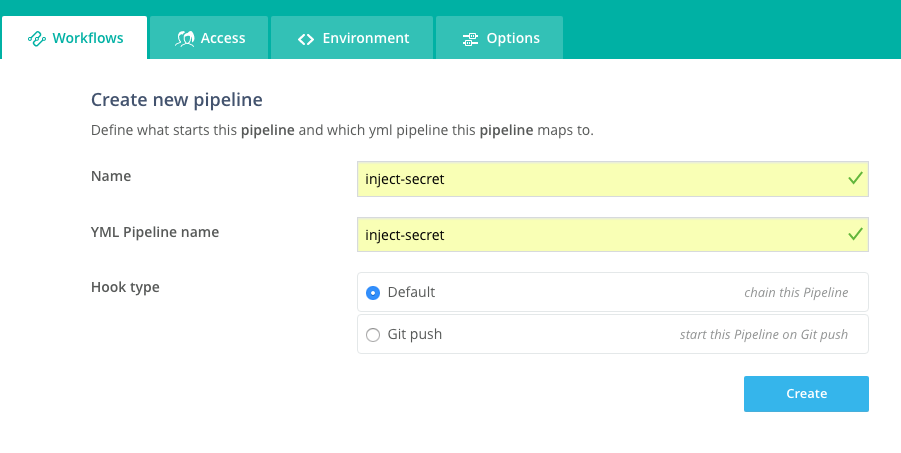
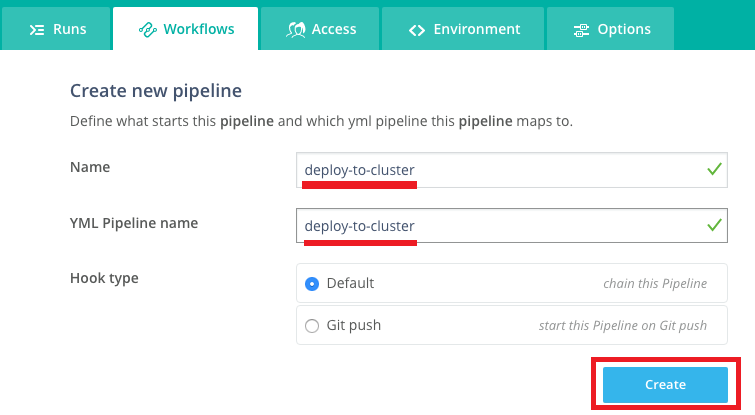
updates to lab guides for terraform provisioning

diff --git a/workshops/container-native-development/LabGuide200.md b/workshops/container-native-development/LabGuide200.md
@@ -113,7 +113,7 @@ cat ~/.oci/oci_api_key_public.pem | clip
 
   ![](images/200/10.png)
 
-**NOTE**: If you are using a federated user, you will not see **User Settings** in the dropdown menu. Instead, click the **Identity** menu item. You will be brought to the **Users** menu. Find your username in the list and hover over the **three dots** menu at the far right of the row, then click **View User Details**.
+  **NOTE**: If you are using a federated user, you will not see **User Settings** in the dropdown menu. Instead, click the **Identity** menu item. You will be brought to the **Users** menu. Find your username in the list and hover over the **three dots** menu at the far right of the row, then click **View User Details**.
 
   ![](images/200/56.png)
 
@@ -223,63 +223,48 @@ cat ~/.oci/oci_api_key_public.pem | clip
   master_https_ingress = "0.0.0.0/0"
   ```
 
-  **NOTE**: The 0.0.0.0/0 value means that any IP address can access your cluster. A better security practice would be to determine your externally-facing IP address and restrict access to only that address. If you'd like, you can find out your IP address by running `curl ifconfig.co` in a terminal window, and place that address into the `master_https_ingress` parameter (e.g. `master_https_ingress = "10.10.10.10/32"`). Note that if you need remote assistance with the workshop, you may need to open this back up to 0.0.0.0/0 to allow access to your cluster.
+  **NOTE**: The 0.0.0.0/0 value means that any IP address can access your cluster. A better security practice would be to determine your externally-facing IP address and restrict access to only that address. If you'd like, you can find out your IP address by running `curl ifconfig.co` in a terminal window, and place that address into the `master_https_ingress` parameter (e.g. `master_https_ingress = "11.12.13.14/32"`). Note that if you need remote assistance with the workshop, you may need to open this back up to 0.0.0.0/0 to allow access to your cluster.
 
-- **Open** [Wercker](https://app.wercker.com) in a new tab or browser window, or switch to it if you already have it open. In the top navigation bar, click **Clusters**, then **Cloud Credentials**.
+- Now we are ready to have Terraform provision our Kubernetes cluster. **Save and close** your terraform.tfvars file. In your open **terminal window**, run the following command to have Terraform evaluate the various network and compute infrastructure that we are asking to be provisioned. You should see asdf
 
-  ![](images/200/14.png)
+  ```bash
+  terraform plan
+  ```
 
-- Before we can create a new Kubernetes cluster, we must give Wercker the identity information for our OCI tenant, user, and compartment. We also need to give Wercker the private API key that we just generated.
+  ![](images/200/60.png)
 
-  If your workshop instructor has specified an organization for you to use, **select it** from the drop down list in the top left part of the page. Then click **New Cloud Credential**.
+- If the output of the plan step looks correct, you are ready to actually provision the infrastructure by running the following command in your **terminal window**. Note that Terraform will prompt you to type `yes` after it recomputes the required plan in order to begin provisioning.
 
-  ![](images/200/15.png)
+  ```bash
+  terraform apply
+  ```
 
-- In the **Name** field, enter a name of your choice to identify your credential. For the next three fields, you will **copy and paste** values from the OCI Console User Details screen into the Wercker form. The image below shows where to find the User OCID, Tenancy OCID, and Key Fingerprint. We will fill in the API Private Key field next.
+  ![](images/200/61.png)
 
-  ![](images/200/17.png)
+- It will take several minutes to create the required Virtual Cloud Networks, load balancers, and compute instances that make up a Kubernetes cluster. If you'd like, you can observe the objects being created in the **OCI Console** -- click on **Compute** or **Networking** from the navigation menu and be sure to select the **kubernetes compartment** from the dropdown on the left side of the page.
 
-- In a terminal window, run the following command to copy your **API Private Key**
+  ![](images/200/62.png)
 
-  `cat ~/.oci/oci_api_key.pem | pbcopy`
+- When provisioning is complete, Terraform will output the details of all created infrastructure to the terminal:
 
-- **Paste** your private key into the **API Private Key** field in the Wercker form in your browser. Then click **Create**.
+  ![](images/200/63.png)
 
-  ![](images/200/16.png)
+- During provisioning, Terraform generated a `kubeconfig` file that will authenticate you to the cluster. Let's configure and start the kubectl proxy server to make sure our cluster is accessible.
 
-## Configure Wercker Cluster
+- First, you will need to install `kubectl`, the Kubernetes command line interface, to interact with Kubernetes from your local machine. Install it by following the instructions for your OS in the **[Kubernetes docs](https://kubernetes.io/docs/tasks/tools/install-kubectl/)**.
 
-### **STEP 5**: Create a Cluster in Wercker
+- Next, you will need to set an environment variable to point `kubectl` to the location of your Terraform-generated `kubeconfig` file. Then you can start the Kubernetes proxy server, which will let you view the cluster dashboard at a localhost URL.
 
-- **Open** [Wercker](https://app.wercker.com) in a new tab or browser window, or switch to it if you already have it open. In the top navigation bar, click **Clusters**, then **Create**.
+  ```bash
+  export KUBECONFIG=`PWD`/generated/kubeconfig
+  kubectl proxy
+  ```
 
-  ![](images/200/18.png)
+- Now that the proxy server is running, navigate to the **[Kubernetes dashboard](localhost:8001/api/v1/namespaces/kube-system/services/http:kubernetes-dashboard:/proxy/)** in a new browser tab.
 
-- **Select** the same organization you did when you created your cloud credential in the previous step. Then **select** your cloud credential from the drop down list.
+  ![](images/200/64.png)
 
-  ![](images/200/19.png)
-
-- In the Compartment OCID field, enter the value that you saved to a text file after creating the wercker **compartment** in the OCI Console. If you have lost it, you can retrieve it from the OCI Console compartment list (refer to **STEP 2**). Once you have entered it, click **Next**
-
-  ![](images/200/20.png)
-
-- Enter a **name** for your cluster, accept the default **Master Kubernetes Version**, and click **Next**
-
-  ![](images/200/21.png)
-
-- Leave the default **small** size selected for your cluster and click **Next**
-
-  ![](images/200/22.png)
-
-  **NOTE**: We are selecting small virtual machines to run our cluster in this workshop, but you could have chosen any shape--including bare metal instances--for your nodes.
-
-- Leave the default OS and Kubernetes versions selected and click **Launch**
-
-  ![](images/200/23.png)
-
-- Wercker will begin provisioning nodes in your OCI compartment. The **kubeconfig file** will be available from the **Get Started** tab at any time after your cluster is provisioned. In a few minutes, the **Cluster Status** and **Node Status** on your summary page will move from provisioning to running. No need to wait for that; you can move on to the next step, where we will tell Wercker how we would like to deploy our application to Kubernetes.
-
-  ![](images/200/24.png)
+- Great! We've got Kubernetes installed and accessible -- now we're ready to get our microservice deployed to the cluster. The next step is to tell Wercker how and where we would like to deploy our application. In your **terminal window**, press **Control-C** to terminate `kubectl proxy`. We will need the terminal window to gather some cluster info in another step. We'll start the proxy again later.
 
 ## Configure and Run Wercker Deployment Pipelines
 
@@ -361,36 +346,12 @@ spec:
 
 - **Copy** the YAML below and **paste** it below the pipelines we defined earlier.
 
-  >This will define two new **Pipelines** called inject-secret and deploy-to-cluster. Both pipelines will make use of a new type of step: **kubectl**. If you have used Kubernetes before, you will be familiar with kubectl, the standard command line interface for managing Kubernetes. The kubectl Wercker step can be used to execute Kubernetes commands from within a Pipeline.
-
-  >The **inject-secret** Pipeline will create a new Kubernetes secret that contains our Wercker authentication token (we'll generate one in the Wercker app later). This will allow Kubernetes to authenticate when it tries to pull our Docker image from the Oracle Container Registry.
+  >This will define a new **Pipeline** called deploy-to-cluster. The pipeline will make use of a new type of step: **kubectl**. If you have used Kubernetes before, you will be familiar with kubectl, the standard command line interface for managing Kubernetes. The kubectl Wercker step can be used to execute Kubernetes commands from within a Pipeline.
 
   >The **deploy-to-cluster** Pipeline will prepare our kubernetes.yml file by filling in some environment variables. It will then use kubectl to tell Kubernetes to apply that configuration to our cluster.
 
 ```yaml
-#Inject our Wercker application token into Kubernetes to authenticate container pulls
-#delete any existing Wercker secret before creating, to accommodate secret changes
-inject-secret:
-    box:
-        id: alpine
-        cmd: /bin/sh
-    steps:
-
-    - kubectl:
-        name: delete secret
-        server: $KUBERNETES_MASTER
-        token: $KUBERNETES_TOKEN
-        insecure-skip-tls-verify: true
-        command: delete secret wercker; echo delete registry secret
-
-    - kubectl:
-        name: create secret
-        server: $KUBERNETES_MASTER
-        token: $KUBERNETES_TOKEN
-        insecure-skip-tls-verify: true
-        command: create secret docker-registry wercker --docker-server=$DOCKER_REGISTRY --docker-username=$DOCKER_USERNAME --docker-password=$KUBERNETES_TOKEN --docker-email=$DOCKER_EMAIL; echo create registry secret
-
-#Deploy our container from the Oracle Container Registry to the Oracle Container Engine (Kubernetes)
+#Deploy our container from the Docker Hub to Kubernetes
 deploy-to-cluster:
     box:
         id: alpine
@@ -428,45 +389,41 @@ deploy-to-cluster:
 
   ![](images/200/31.png)
 
-- Enter **inject-secret** into both the Name and YML Pipleine name fields. Click **Create**.
+- Enter **deploy-to-cluster** into both the Name and YML Pipleine name fields. Click **Create**.
 
   ![](images/200/32.png)
 
-- Repeat that process to create the **deploy-to-cluster** pipeline.
+- Click the **Workflows** tab again to get back to the editor.
 
-- Then click the **Workflows** tab again to get back to the editor.
-
-- Click the **plus** button to the right of the **push-release** pipeline to add to the workflow. In the **Execute Pipeline** drop down list, select **inject-secret** and click **Add**
+- Click the **plus** button to the right of the **push-release** pipeline to add to the workflow. In the **Execute Pipeline** drop down list, select **deploy-to-cluster** and click **Add**
 
   ![](images/200/33.png)
 
-- Now click the **plus** button to the right of **inject-secret** and add the **deploy-to-cluster** pipeline to your workflow in the same manner.
+- Your overall Workflow should now have three Pipelines:
 
   ![](images/200/34.png)
 
-- Now we've got our workflow updated with our deployment pipelines, but there's one more thing we need to do before we can actually deploy. We need to set two environment variables that tell Wercker the address of our Kubernetes master and provide an authentication token for Kubernetes to use to pull Docker images from our registry.
+- Now we've got our workflow updated with our deployment pipelines, but there's one more thing we need to do before we can actually deploy. We need to set two environment variables that tell Wercker the address of our Kubernetes master and provide an authentication token for Wercker to issue commands to Kubernetes.
 
 ### **STEP 9**: Set up environment variables in Wercker
 
-- Our first step is to generate an authentication token for Kubernetes. Click to open the **User Menu** in the upper right hand corner of Wercker, then click **Settings**
+- Our first step is to set our cluster's authentication token as a Wercker environment variable. In your **terminal window**, run the following command to copy the token to your clipboard:
 
-  ![](images/200/35.png)
+  ```bash
+  terraform output api_server_admin_token | pbcopy
+  ```
 
-- Click **Personal Tokens** in the left side menu. Enter a name for your token, such as **OCI Token**, and click **Generate**.
-
-  ![](images/200/36.png)
-
-- **Copy** the generated token to the clipboard. Return to your application page in Wercker by clicking **back** in your browser twice. Once there, click the **Environment** tab.
-
-- In the key field of the empty row below the PORT environment variable, enter the key **KUBERNETES_TOKEN**. In the value field, **paste** the token we just generated. Check the **Protected** box and click **Add**.
+- Back in your Wercker browser tab, click the **Environment** tab. In the key field of the empty row below the last environment variable, enter the key **KUBERNETES_TOKEN**. In the value field, **paste** the token we just copied. Check the **Protected** box and click **Add**.
 
   ![](images/200/37.png)
 
-- The other environment variable we need to add is the address of the Kubernetes master we want to deploy to. We can find it on the clusters page. In the top navigation bar, click **Clusters**. Find your cluster in the list and **copy** its **Kubernetes Address**.
+- The other environment variable we need to add is the address of the Kubernetes master we want to deploy to. We can get the URL from `kubectl`. Run the following command in your **terminal window** to copy the URL to your clipboard:
 
-  ![](images/200/38.png)
+  ```bash
+  echo $(kubectl config view | grep server | cut -f 2- -d ":" | tr -d " ") | pbcopy
+  ```
 
-- Use the browser's **back** button to get back to the environment variable page for your application. Add a new environment variable with the key **KUBERNETES_MASTER**. In the value field, type **https://** and then **paste** the value you copied from the clusters page. The value **must start with https://** for Wercker to communicate with the cluster. When finished, click **Add**.
+- In your Wercker browser tab, add a new environment variable with the key **KUBERNETES_MASTER**. In the value field, **paste** the value you copied from `kubectl`. The value **must start with https://** for Wercker to communicate with the cluster. When finished, click **Add**.
 
   ![](images/200/55.png)
 
@@ -478,7 +435,7 @@ deploy-to-cluster:
 
   ![](images/200/39.png)
 
-- From the **Actions** menu, click **inject-secret**.
+- From the **Actions** menu, click **deploy-to-cluster**.
 
   ![](images/200/40.png)
 
@@ -486,26 +443,19 @@ deploy-to-cluster:
 
   ![](images/200/41.png)
 
-- Click the **Runs** tab so you can monitor the execution of the pipelines. Within a couple of minutes, all four pipelines should complete successfully. Now we can use the Kubernetes dashboard to inspect and validate our deployment.
+- Click the **Runs** tab so you can monitor the execution of the pipeline. Within a minute or so, the deployment pipeline should complete successfully. Now we can use the Kubernetes dashboard to inspect and validate our deployment.
 
   ![](images/200/42.png)
 
 ### **STEP 11**: Validate deployment
 
-- You will need to download the **kubeconfig file** from Wercker that was created for your cluster. Download it by going to Wercker, clicking **Clusters**, clicking your **cluster name**, clicking the **Get started** tab, and clicking **Download kubeconfig File**.
+- In a terminal window, start the **kubectl proxy** using the following command. Your `KUBECONFIG` environment variable should still be set from a previous step. If not, reset it.
 
-  ![](images/200/43.png)
+  ```bash
+  kubectl proxy
+  ```
 
-- You will need to install kubectl to use the Kubernetes dashboard. Install it by following the instructions for your OS in the **[Kubernetes docs](https://kubernetes.io/docs/tasks/tools/install-kubectl/)**.
-
-- In a terminal window, **run** the following two commands. If your downloaded kubeconfig file is in a different location, modify the path in the first command to match. For Windows run in Git Bash.
-
-```bash
-export KUBECONFIG=~/Downloads/kubeconfig
-kubectl proxy
-```
-
-- In a browser tab, navigate to the Kubernetes dashboard at [**Kubernetes dashboard**](http://localhost:8001/api/v1/namespaces/kube-system/services/http:kubernetes-dashboard:/proxy/)
+- In a browser tab, navigate to the [**Kubernetes dashboard**](http://localhost:8001/api/v1/namespaces/kube-system/services/http:kubernetes-dashboard:/proxy/)
 
 - You should see the overview page. In the pods section, you should see two twitter-feed pods running. Click the **name of one of the pods** to go to the detail page.
 
@@ -517,7 +467,7 @@ kubectl proxy
 
 - In the shell that is displayed, **paste** the following command and press **Enter**.
 
-**NOTE:** For windows you will need to use ctrl-shift-v to paste.
+  **NOTE:** For windows you will need to use ctrl-shift-v to paste. Alternatively, you can use the mouse-driven browser menu to paste the command.
 
   `curl -s http://$HOSTNAME:8080/statictweets | head -c 100`
 

diff --git a/workshops/container-native-development/LabGuide500.md b/workshops/container-native-development/LabGuide500.md
@@ -110,7 +110,7 @@ During this lab, you will take on the **Lead Developer Persona** and extend your
 
   **NOTE**: `kubectl` needs to be in your PATH for Helm to run. If you did not modify your system PATH when you installed kubectl in a previous lab, you can run `export PATH=$PATH:/the/directory/where/you/downloaded/kubectl` to alter the path in this shell. Do this before running `helm init` below.
 
-  ```
+  ```bash
   cd ~/Downloads
   mkdir helm
   tar -xf helm-v2.7.2-windows-amd64.tar.gz -C helm
@@ -151,7 +151,9 @@ During this lab, you will take on the **Lead Developer Persona** and extend your
 
   - Once the **External-IP** field is populated (which could take up to 5 minutes), set the **FN_API_URL** environment variable using the following command:
 
-    `export FN_API_URL=http://$(kubectl get svc --namespace default my-release-fn-api -o jsonpath='{.status.loadBalancer.ingress[0].ip}'):80`
+    ```bash
+    export FN_API_URL=http://$(kubectl get svc --namespace default my-release-fn-api -o jsonpath='{.status.loadBalancer.ingress[0].ip}'):80
+    ```
 
     ![](images/500/16.png)
 
@@ -187,7 +189,9 @@ During this lab, you will take on the **Lead Developer Persona** and extend your
 
 - Test the function using **curl**, but this time using the URL of the remote Fn Server:
 
-  `curl -X POST --data-binary @"sample-image.jpg" -H "Content-Type: application/octet-stream" $FN_API_URL/r/imgconvert/resize128 > thumbnail-remote.png`
+  ```bash
+  curl -X POST --data-binary @"sample-image.jpg" -H "Content-Type: application/octet-stream" $FN_API_URL/r/imgconvert/resize128 > thumbnail-remote.png
+  ```
 
   ![](images/500/20.png)
 
@@ -206,7 +210,9 @@ During this lab, you will take on the **Lead Developer Persona** and extend your
 
 - Open the **product catalog** website in a browser. If you don't have the URL, you can look in the Kubernetes dashboard for the **external endpoint** of the product-catalog-service, or you can run the following command from your terminal window:
 
-  `echo http://$(kubectl get svc --namespace default product-catalog-service -o jsonpath='{.status.loadBalancer.ingress[0].ip}'):$(kubectl get svc --namespace default product-catalog-service -o jsonpath='{.spec.ports[0].port}')`
+  ```bash
+  echo http://$(kubectl get svc --namespace default product-catalog-service -o jsonpath='{.status.loadBalancer.ingress[0].ip}'):$(kubectl get svc --namespace default product-catalog-service -o jsonpath='{.spec.ports[0].port}')
+  ```
 
   ![](images/500/22.png)
 
